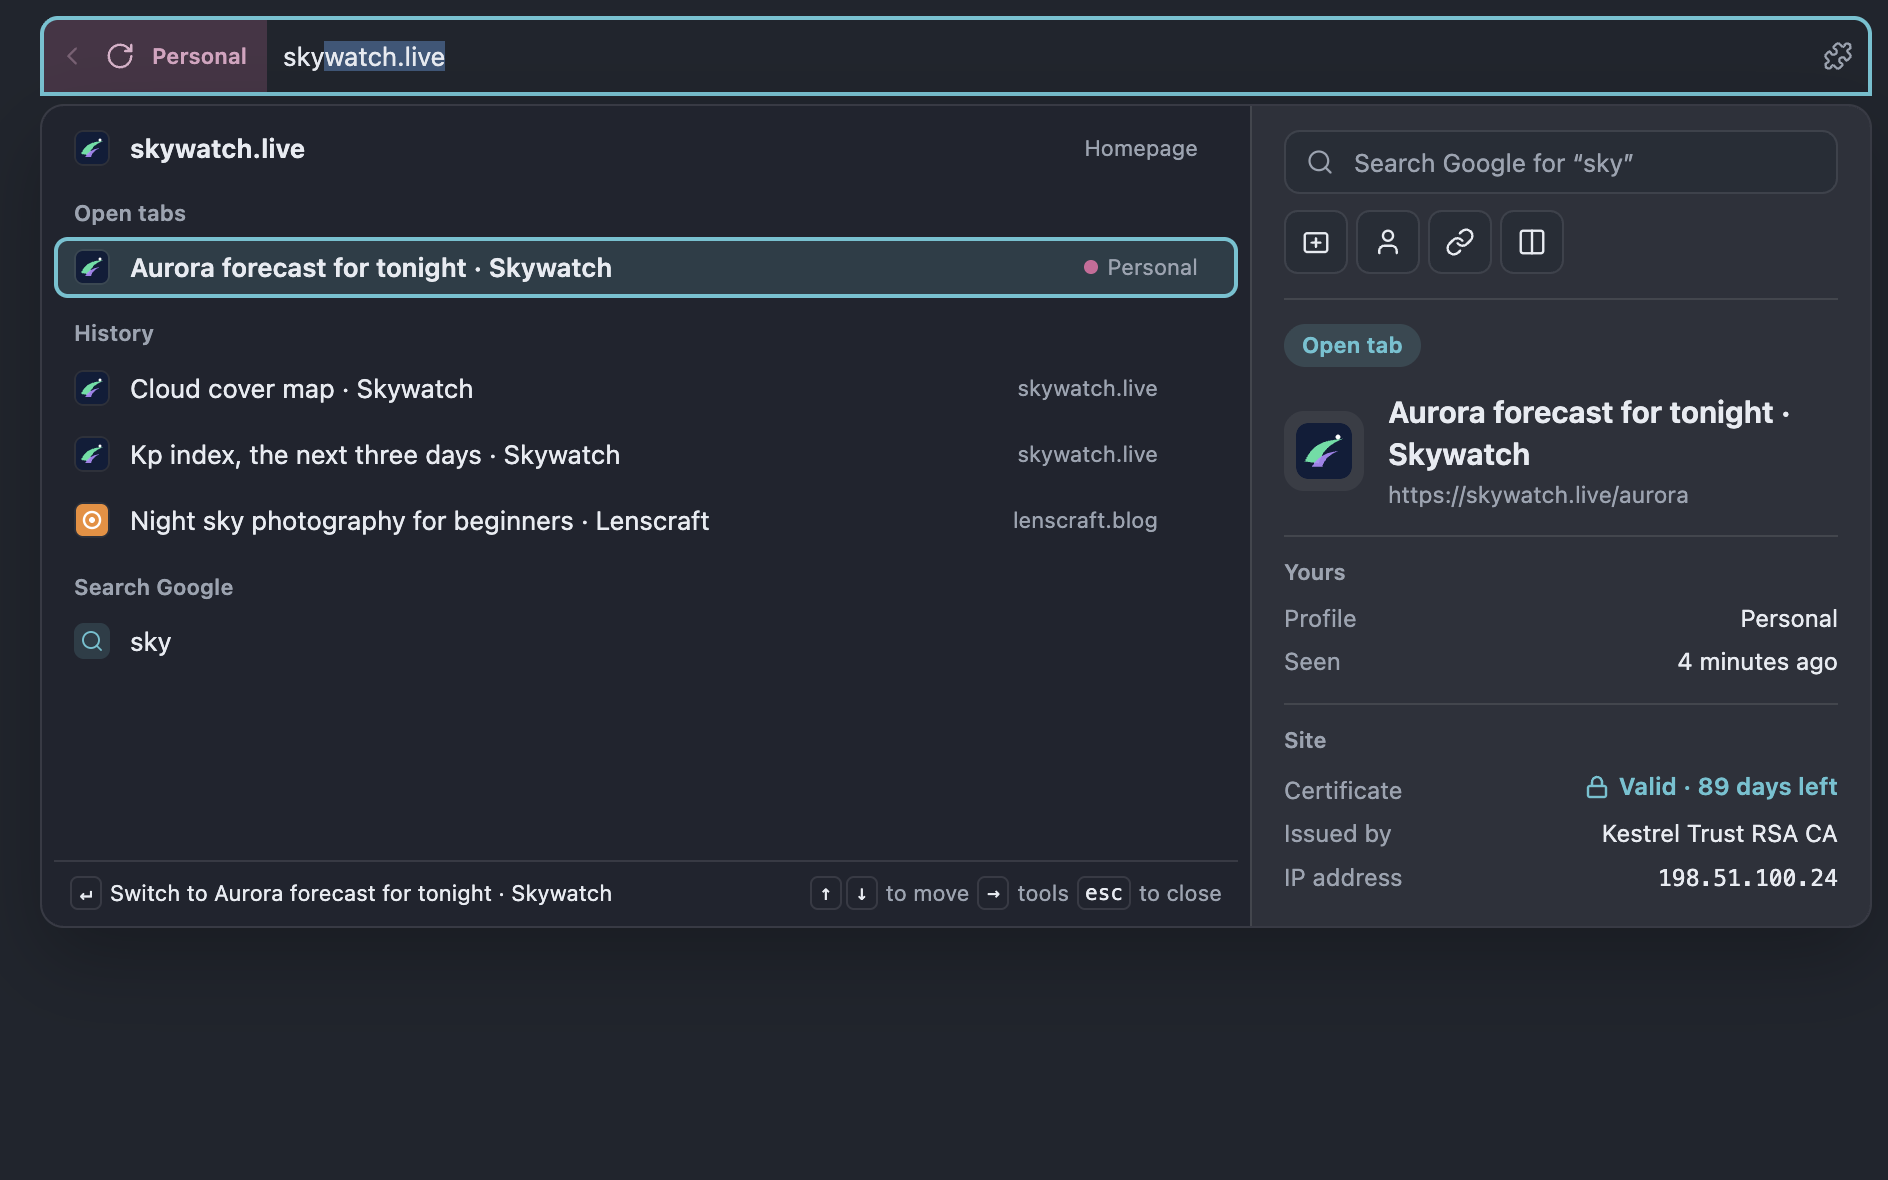
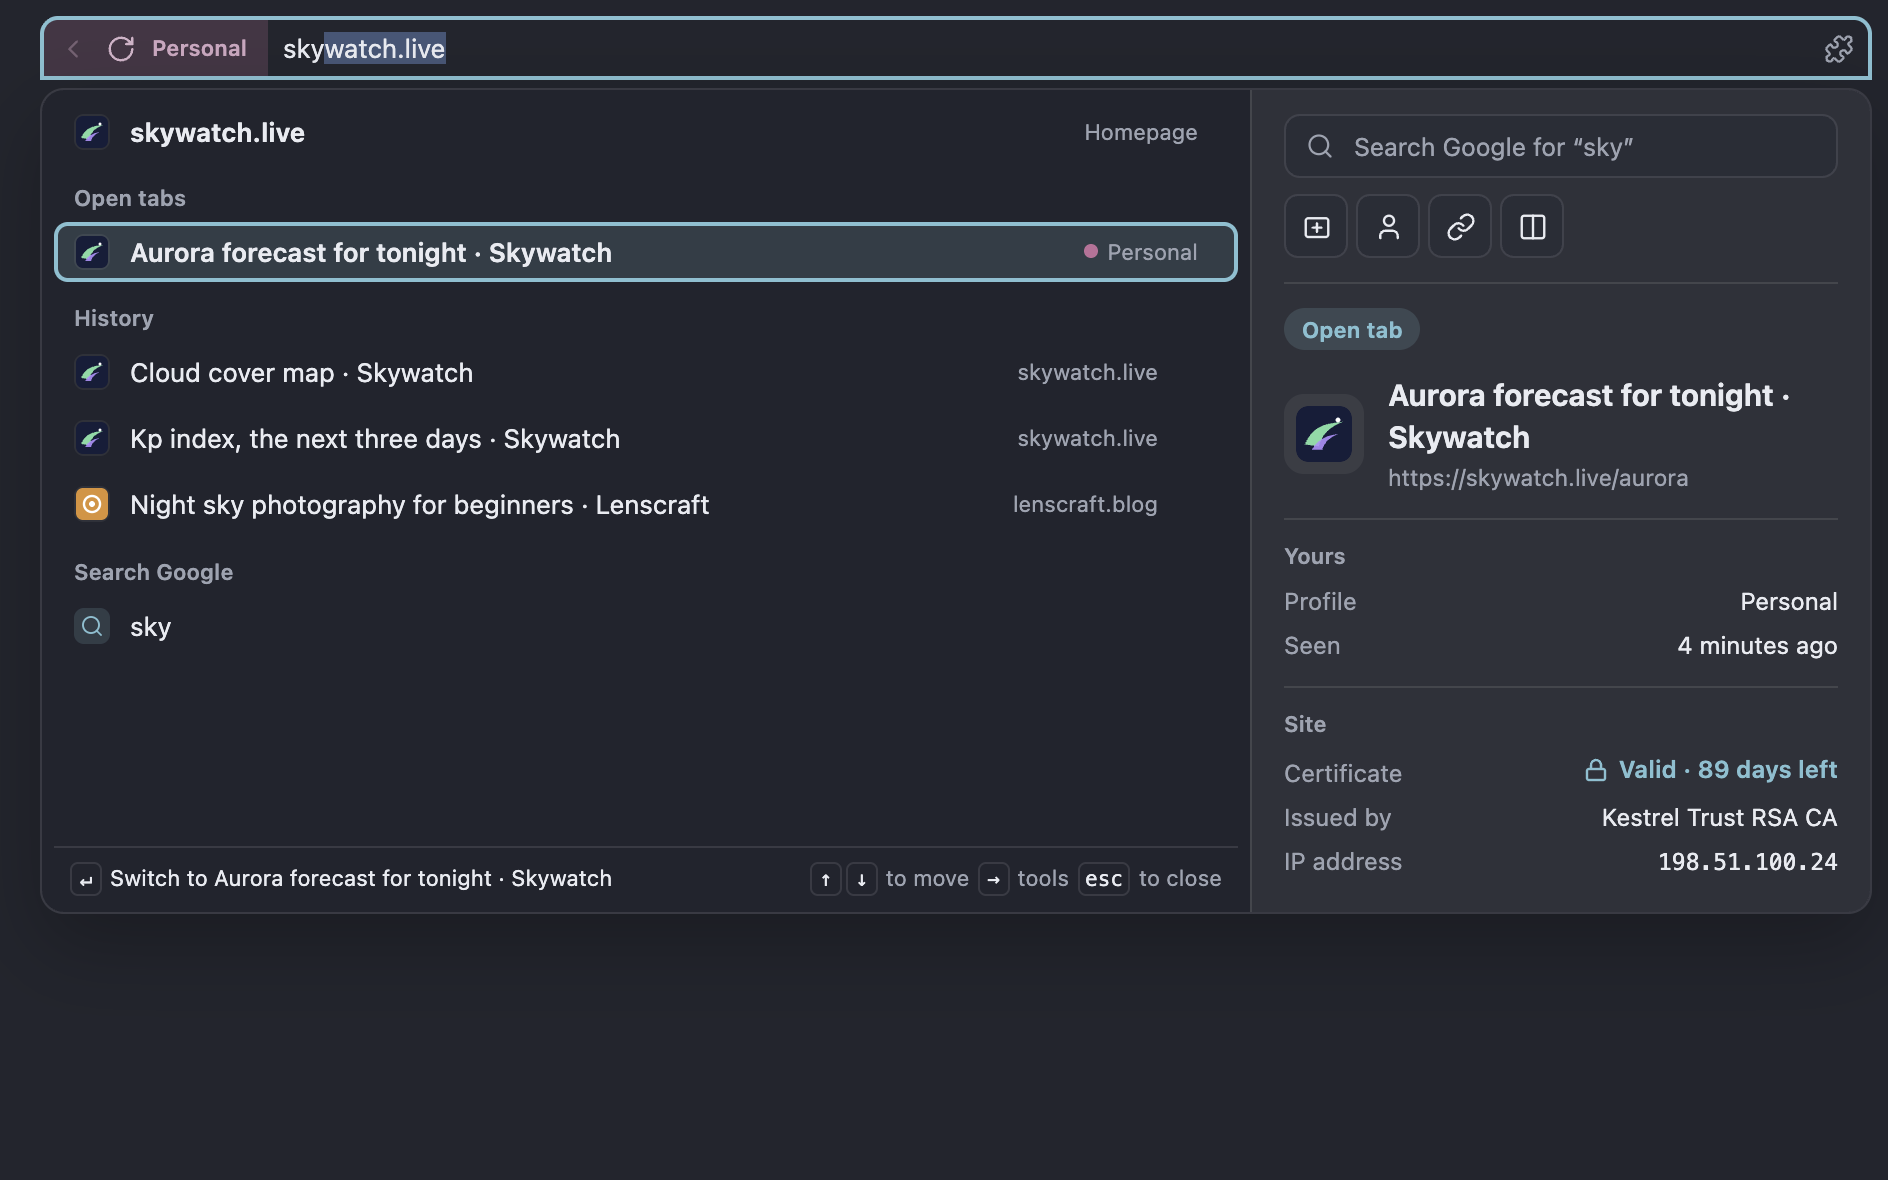
Split tab and audio fixes
- Fix split close address, shorter bar, lingering sound

diff --git a/src/ui/ui.ts b/src/ui/ui.ts
@@ -171,7 +171,7 @@ function render() {
   $('settingsButton').title = `Settings${keyHint('settings')}`
   $('pin').setAttribute('aria-pressed', String(S.pinned))
   $('pin').title = `${S.pinned ? 'Pinned: a regular window' : 'Pin: keep as a regular window'} with a Dock icon${keyHint('pin')}`
-  if (!barFocused()) showAddress()
+  if (!editing()) showAddress()
   $('extHead').textContent = `Extensions · ${p?.name ?? ''}`
   $('newTab').title = `New tab${S.filter !== 'all' ? ` in ${profile(S.filter)?.name ?? S.filter}` : ''}${keyHint('newTab')}, right-click for a profile`
   renderSettings()
@@ -1185,6 +1185,12 @@ const layoutHost: LayoutHost = {
 }
 /** The keyboard is in the address bar: its text, or a field of the layout's own in the suggestions. */
 const barFocused = () => document.activeElement === omnibox || suggest.contains(document.activeElement)
+/**
+ * The address bar is being edited: it has the keyboard and jbrow's UI has it. A page that takes the
+ * keyboard (clicked, or made active when a pane closes) leaves the address bar the UI's focused
+ * element all the same, though nothing is typed there until the UI has the keyboard back.
+ */
+const editing = () => document.hasFocus() && barFocused()
 /** Focus moving between the text and the suggestions' own fields, which keeps the address bar open. */
 const withinBar = (to: EventTarget | null) => to instanceof Node && (to === omnibox || suggest.contains(to))
 
@@ -1652,21 +1658,50 @@ function toggleMute(id: string) {
   if (t) send('mute', { id, muted: !t.muted })
 }
 
+/**
+ * How long the speaker at the foot of the sidebar stays after a tab goes quiet, so a sound that
+ * just ended can still be clicked through to its tab. Muting one doesn't linger: that's dealt with.
+ */
+const SOUND_LINGER_MS = 10_000
+/** Tabs heard as of the last render, and when the ones that went quiet since did. */
+let heardIds = new Set<string>()
+const quietAt = new Map<string, number>()
+let quietTimer: ReturnType<typeof setTimeout> | undefined
+
 function renderSound() {
   if (!S) return
+  const now = Date.now()
+  const open = !soundPop.hidden
+  // Kept while the list is open or the pointer is on the speaker, not to take it from under the click.
+  const held = open || $('sound').matches(':hover')
+  for (const t of S.tabs) {
+    if (heard(t) || t.muted) quietAt.delete(t.id)
+    else if (heardIds.has(t.id)) quietAt.set(t.id, now)
+  }
+  heardIds = new Set(S.tabs.filter(heard).map((t) => t.id))
+  const ids = new Set(S.tabs.map((t) => t.id))
+  for (const [id, at] of quietAt) if (!ids.has(id) || (!held && now - at >= SOUND_LINGER_MS)) quietAt.delete(id)
+  clearTimeout(quietTimer)
+  if (quietAt.size && !held) quietTimer = setTimeout(renderSound, Math.min(...quietAt.values()) + SOUND_LINGER_MS - now)
+
   const playing = S.tabs.filter((t) => t.audible)
+  const quiet = S.tabs.filter((t) => !t.audible && quietAt.has(t.id))
   const loud = playing.filter(heard)
   // Muting the last one from the list leaves the list up, to take it back.
-  const shown = loud.length > 0 || (!soundPop.hidden && playing.length > 0)
+  const shown = loud.length > 0 || quiet.length > 0 || (open && playing.length > 0)
   $('sound').hidden = !shown
   if (!shown) return setSoundPop(false)
+  // Nothing heard now: it names what played a moment ago.
+  const past = !loud.length && quiet.length > 0
+  const named = past ? quiet : loud
   const button = $('soundButton')
-  button.title = loud.length === 1 ? `Playing sound: ${displayName(loud[0])}` : `${loud.length || 'No'} tabs playing sound`
-  $('soundList').innerHTML = playing
+  button.title = named.length === 1 ? `${past ? 'Played' : 'Playing'} sound: ${displayName(named[0])}` : `${named.length || 'No'} tabs ${past ? 'played' : 'playing'} sound`
+  $('soundHead').textContent = past ? 'Played sound' : 'Playing sound'
+  $('soundList').innerHTML = [...playing, ...quiet]
     .map((t) => {
       const img = t.favicon ? `<img class="fav" src="${esc(t.favicon)}" alt="">` : `<span class="fav none"></span>`
       const p = profile(t.profile)
-      return `<div class="sound-item${t.muted ? ' muted' : ''}" style="--pc:${esc(p?.color ?? '')}">
+      return `<div class="sound-item${t.muted ? ' muted' : ''}${t.audible ? '' : ' quiet'}" style="--pc:${esc(p?.color ?? '')}">
         <button class="pop-item" data-go="${t.id}" title="${esc(isPrivate(t.url) ? displayName(t) : t.url)}">${img}<span class="name">${esc(displayName(t))}</span>${S!.profiles.length > 1 && p ? `<span class="prof">${esc(p.name)}</span>` : ''}</button>
         <button class="icon sm" data-mute="${t.id}" title="${t.muted ? 'Unmute' : 'Mute'}" aria-label="${t.muted ? 'Unmute' : 'Mute'}">${icon(t.muted ? 'volumeX' : 'volume')}</button>
       </div>`
@@ -1684,6 +1719,8 @@ function setSoundPop(open: boolean) {
   if (!open) renderSound()
 }
 $('soundButton').addEventListener('click', () => setSoundPop(!!soundPop.hidden))
+// A sound that ended while the pointer was on the speaker goes once the pointer does.
+$('sound').addEventListener('mouseleave', () => renderSound())
 soundPop.addEventListener('click', (e) => {
   const el = e.target as HTMLElement
   const mute = el.closest<HTMLElement>('[data-mute]')
@@ -3716,14 +3753,14 @@ window.jbrow.on('state', (state: UiState) => {
   if (!suggest.hidden && state.prefs.urlBarStyle !== layoutId) showSuggestions()
 })
 window.jbrow.on('suggestions', (r: SuggestReply) => {
-  if (r.seq !== suggestSeq || !barFocused()) return
+  if (r.seq !== suggestSeq || !editing()) return
   visitHits = r.visits
   // Only while the text is still what was typed (or what was typed plus the last completion).
   if (mayComplete && (omnibox.value === typed || completion())) applyCompletion(r.completion)
   showSuggestions()
 })
 window.jbrow.on('search-suggestions', (r: SearchReply) => {
-  if (r.seq !== suggestSeq || !barFocused()) return
+  if (r.seq !== suggestSeq || !editing()) return
   searchHits = r
   showSuggestions()
 })

diff --git a/test/e2e/sound.test.ts b/test/e2e/sound.test.ts
@@ -61,3 +61,28 @@ test('a tab playing sound shows a speaker, in its row and the toolbar, that mute
   await waitFor(() => ui.eval<boolean>(`!document.getElementById('sound').hidden`), 'the toolbar speaker back')
   await jb.send('mute', { id: tone.id, muted: true })
 })
+
+test('the toolbar speaker stays a while after the sound stops, to go to what played', async () => {
+  // Another tone than the first test's, which plays on muted.
+  const tone = await openTab(jb, `${web.url}/tone?again`)
+  await jb.waitForState((s) => tabById(s, tone.id)?.audible, 'the tab to be audible')
+  const quiet = await openTab(jb, `${web.url}/quiet`)
+  await activate(jb, quiet.id)
+  const ui = await jb.ui()
+  await waitFor(() => ui.eval<boolean>(`!document.getElementById('sound').hidden`), 'the toolbar speaker')
+
+  const page = await jb.page(`${web.url}/tone?again`)
+  await page.eval('osc.stop()')
+  page.close()
+  await jb.waitForState((s) => !tabById(s, tone.id)?.audible, 'the tab to go quiet')
+  // Still there, saying what played, and its list still takes you there.
+  assert.equal(await ui.eval(`document.getElementById('sound').hidden`), false)
+  assert.equal(await ui.eval(`document.getElementById('soundButton').title`), 'Played sound: Tone')
+  await ui.clickOn('#soundButton')
+  await waitFor(() => ui.eval<boolean>(`!document.getElementById('soundPop').hidden`), 'the sound list')
+  assert.equal(await ui.eval(`document.querySelector('#soundList .sound-item.quiet [data-go]')?.dataset.go`), tone.id)
+  await ui.clickOn('#soundList .quiet [data-go]')
+  await jb.waitForState((s) => s.activeId === tone.id, 'the tab that played to be active')
+  // And goes a little later.
+  await waitFor(() => ui.eval<boolean>(`document.getElementById('sound').hidden`), 'the toolbar speaker to go')
+})

diff --git a/test/e2e/split.test.ts b/test/e2e/split.test.ts
@@ -125,6 +125,24 @@ test('close-pane takes a tab out of the split; the one beside it takes over', as
   assert.equal(await ui.eval('document.querySelectorAll("#threads .split-row").length'), 0)
 })
 
+test('the tab left when a pane closes shows its address, though the address bar had the keyboard', async () => {
+  const left = await openTab(jb, `${web.url}/left`)
+  const pane = await splitNew(left.id)
+  const ui = await jb.ui()
+  // ⌘D left the keyboard in the new pane's address bar.
+  await waitFor(() => ui.eval<boolean>('document.activeElement === omnibox'), 'the address bar to have the keyboard')
+  // Closing the pane hands the keyboard to the page left over. The UI loses it, and the address bar
+  // stays its focused element all the same; the tests' focus emulation would hide that.
+  await ui.send('Emulation.setFocusEmulationEnabled', { enabled: false })
+  try {
+    await jb.send('close', { id: pane.id })
+    await jb.waitForState((s) => !s.splits.length && s.activeId === left.id, 'the split to end')
+    await waitFor(() => ui.eval<boolean>(`omnibox.value === ${JSON.stringify(`${web.url}/left`)} && !urlShow.hidden`), "the left tab's address")
+  } finally {
+    await ui.send('Emulation.setFocusEmulationEnabled', { enabled: true })
+  }
+})
+
 test('a split holds four tabs at most', async () => {
   const first = await openTab(jb, `${web.url}/left`)
   const panes = [first.id]

diff --git a/src/ui/ui.css b/src/ui/ui.css
@@ -2,8 +2,8 @@
 /* Theme colors are set on [data-theme] rather than :root alone, so a theme swatch in settings can show its own. */
 :root {
   --sidebar: 256px;
-  --toolbar: 48px;
-  --bar: 40px;
+  --toolbar: 40px;
+  --bar: 32px;
   --gutter: 8px;
   --pane-gap: 8px;
   --font: -apple-system, BlinkMacSystemFont, 'Helvetica Neue', sans-serif;
@@ -308,7 +308,7 @@ svg.i { width: 16px; height: 16px; fill: none; stroke: currentColor; stroke-widt
 .sound-item .fav.none { background: var(--line); }
 .sound-item .name { flex: 1; min-width: 0; overflow: hidden; text-overflow: ellipsis; white-space: nowrap; }
 .sound-item .prof { flex: none; font-size: 11px; color: var(--pc, var(--muted)); }
-.sound-item.muted .name { color: var(--muted); }
+.sound-item:is(.muted, .quiet) .name { color: var(--muted); }
 
 /* ---------- downloads: one pie per download, details in a popover ---------- */
 @property --p { syntax: '<number>'; inherits: true; initial-value: 0; }

diff --git a/src/ui/index.html b/src/ui/index.html
@@ -154,7 +154,7 @@
           <div id="sound" class="sound" hidden>
             <button id="soundButton" class="icon" data-icon="volume" title="Tabs playing sound" aria-label="Tabs playing sound" aria-expanded="false"></button>
             <div id="soundPop" class="pop sound-pop" hidden role="dialog" aria-label="Playing sound">
-              <div class="pop-head">Playing sound</div>
+              <div id="soundHead" class="pop-head">Playing sound</div>
               <div id="soundList"></div>
             </div>
           </div>

diff --git a/src/main/panel.ts b/src/main/panel.ts
@@ -11,7 +11,7 @@ const debug = (...args: unknown[]) => process.env.JBROW_DEBUG && console.log('[p
 export const SIDEBAR_WIDTH = 256
 export const GUTTER = 8
 /** Each page's address bar, the top of its card. */
-export const BAR_HEIGHT = 40
+export const BAR_HEIGHT = 32
 /** Where pages start: below the gap at the top of the window and their address bars. */
 export const TOOLBAR_HEIGHT = GUTTER + BAR_HEIGHT
 /** The extension side panel: the gap you drag to resize it, and its header above its page. */
